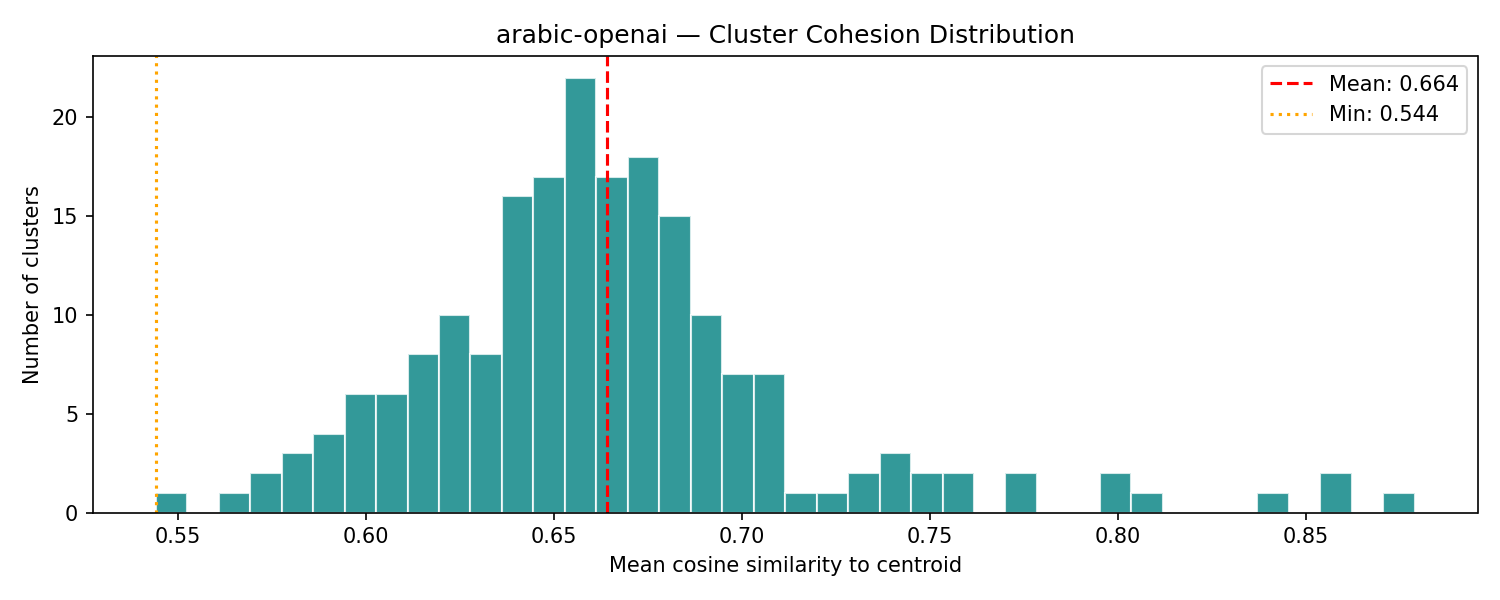
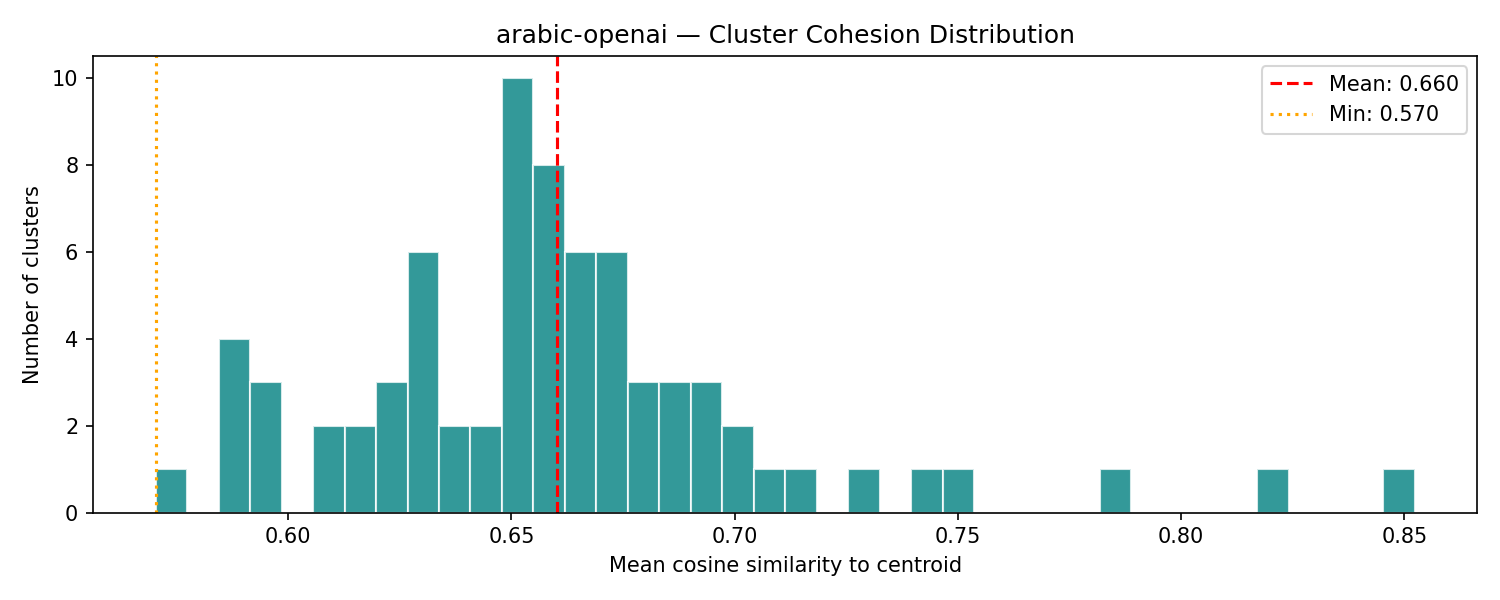
Add arabic-openai-all cluster plots (all 131k Arabic hadiths, clusterIdFinal k=150)
Includes cluster sizes, cohesion, and UMAP projection for the full Arabic corpus.
Also updates visualize_clusters.py with MAX_FETCH cap to prevent >800MB JSON transfers
on large indexes (131k×1536-dim was blocking indefinitely before).

diff --git a/tests/visualize_clusters.py b/tests/visualize_clusters.py
@@ -73,6 +73,11 @@ source_fields.append("lang")
 es_query = ({"query": {"exists": {"field": cluster_field}}}
             if cluster_field else {"query": {"match_all": {}}})
 
+# For size/cohesion plots we want all docs; for UMAP we only need N_UMAP.
+# Fetch up to MAX_FETCH docs; UMAP sub-samples from these.
+# Keeps transfer small for large indexes (131k × 1536-dim is ~800MB of JSON).
+MAX_FETCH = max(N_UMAP * 3, 20_000)
+
 for hit in es_scan(es, index=ES_INDEX,
         query=es_query,
         _source=source_fields, size=500):
@@ -84,6 +89,9 @@ for hit in es_scan(es, index=ES_INDEX,
     if cluster_field:
         labels_stored.append(hit["_source"].get(cluster_field, -1))
     langs.append(hit["_source"].get("lang", "?"))
+    if len(ids) >= MAX_FETCH:
+        print(f"  Reached MAX_FETCH={MAX_FETCH:,} — stopping scan early")
+        break
 
 X = np.array(X, dtype=np.float32)
 X /= np.maximum(np.linalg.norm(X, axis=1, keepdims=True), 1e-9)